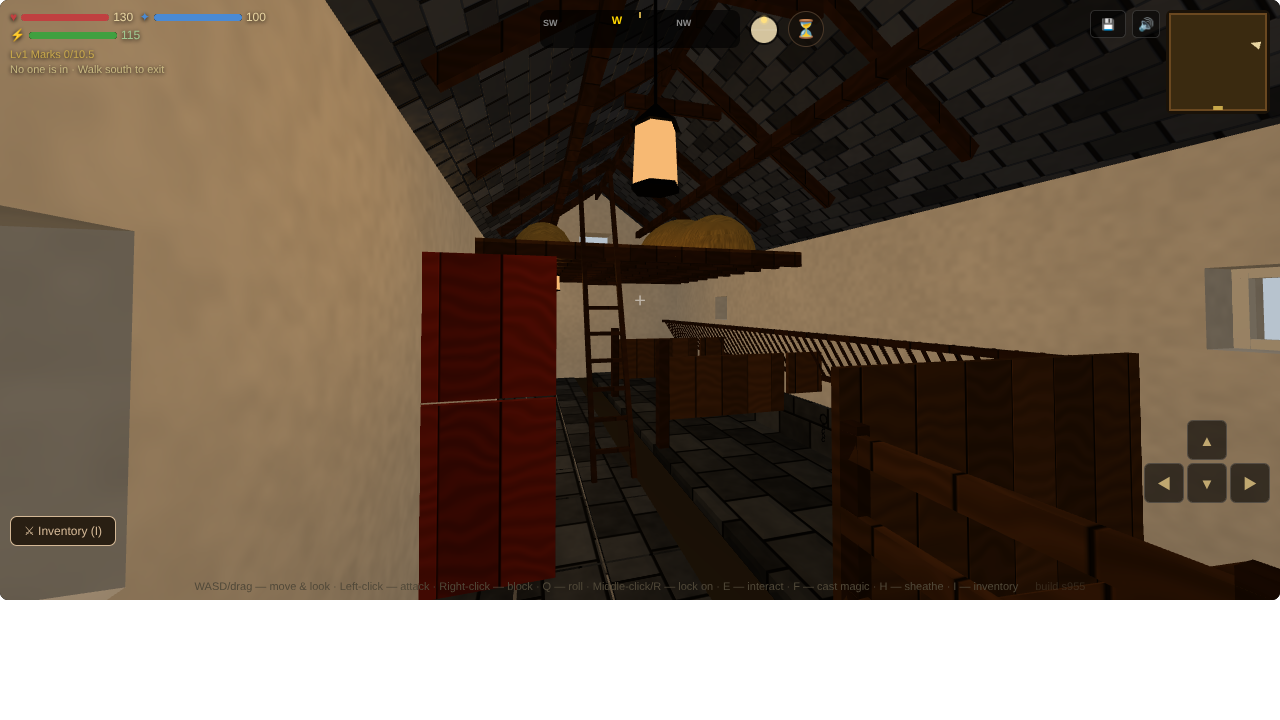
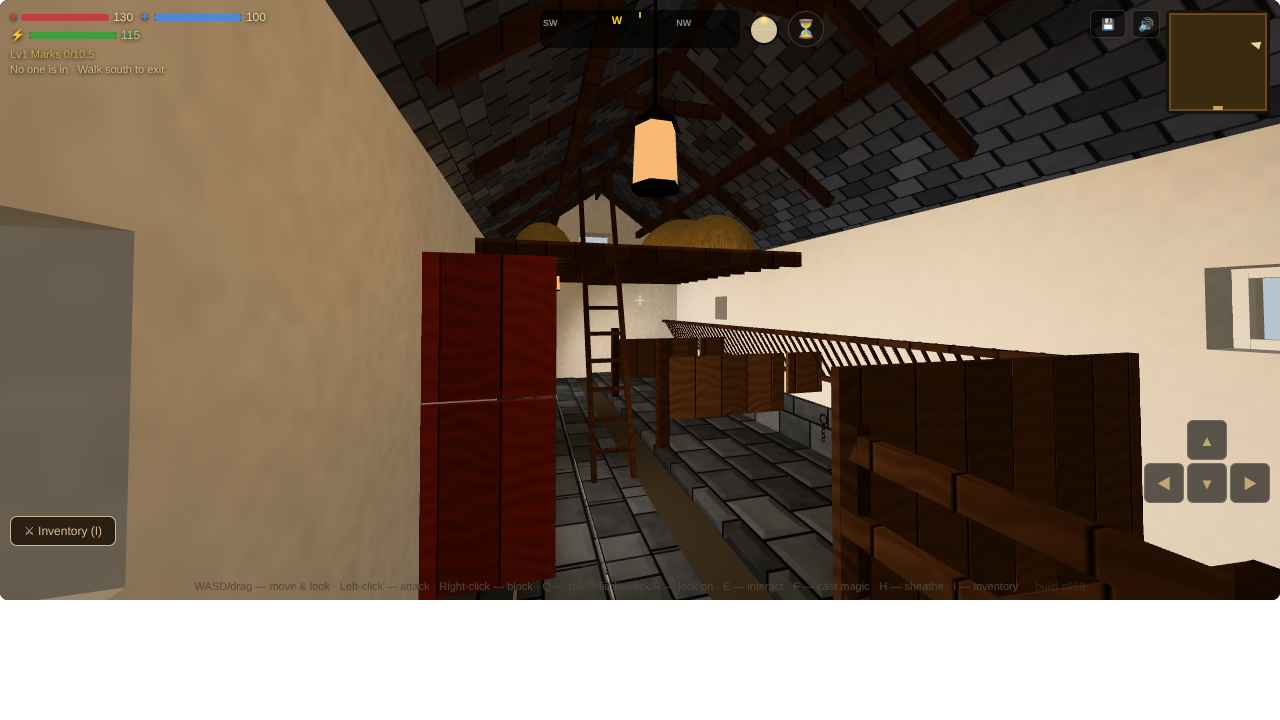
Look: Session 1493 — the day in through the byre's half-doors (26 → 57 at noon); the kit rooms measured at noon and 23h (#765 C)
Claude-Session: https://claude.ai/code/session_019eFMMpjteHQMEzMBx7vpi1

Changed region(s): [[0.4375, 0.1528, 1.0, 0.8556]]

diff --git a/js/83-world-generator.js b/js/83-world-generator.js
@@ -2099,6 +2099,9 @@ function shellFrame(sc_,o){const {W,D,H,type,st,wallKind,FN,FSEED,beams,wins,TAL
       for(const q of T.windows)out(q);for(const q of T.doors)out({...q,y:F0});
       const A=new Float32Array(P.reduce((n,a)=>n+a.length,0));let o=0;for(const a of P){A.set(a,o);o+=a.length;}
       const g=new THREE.BufferGeometry();g.setAttribute('position',new THREE.BufferAttribute(A,3));const m=new THREE.Mesh(g,M);m.userData.daylight=true;sc_.add(m);}
+    // S1493 — and the day in through the two half-doors at the barn's 0.4 (S1490's kitDaylight): from the arrival the byre reads 57 at
+    // noon (26 without, 110 at the full share); the lights between them (a third of a square metre) and the loft's hatch light only themselves
+    kitDaylight(sc_,T.doors.map(q=>({x:rx(q.x),y:q.h*.7,z:D,nx:0,nz:-1,w:q.w,h:q.h})),.4);
     // the light: the two lanterns (the passage's under the loft, the one hung from the couples over the pen) and the room's air
     const KA=kitRoomAir(sc_,.4);
     for(const p of T.lamps){const l=new THREE.PointLight(0xffaa44,1.0*KA.lamp,7);l.position.set(rx(p[0]),ry(p[1]),rz(p[2]));sc_.add(l);}

diff --git a/docs/backlog.md b/docs/backlog.md
@@ -623,7 +623,7 @@ Michael marked all 96 images of the intake on the review page: 63 KEEP and 33 NO
 - **Weather that matters** (`WX` and `tickWeather`, card F3's shaders; OG-138): blizzard, dust storm, aurora and rainbows beside the six kinds the game has; fog and snow cutting sight, mud slowing a horse, rain masking sound for sneaking, wind bending arrows, rivers swelling; puddles and a wet sheen, trees and banners in the wind, snow building on steps and melting. A gate storm (a blue spiral of cloud over a gate) as a sign of the corruption level. **OG-138's conditions as a prototype, 24 Oct 2026** (concept artist; `docs/prototypes/levelup/weather.html`, `docs/concepts.md`): the nine conditions, a rainbow and the gate storm as one row of numbers each over the Gatelands lane (a cloud deck, rain and snow, the wet and puddles, a bolt, the bow, a pennant), the Gatelands only; how far bad weather closes the view is DECISION #679. ~~How far each weather closes the view, and the foes' sight with it~~ — **done, Session 1420** (Michael's C on #679: `WX_SIGHT`, clear 2,400 m, overcast 1,100, rain 500, a storm 220, snow 400, fog 60; the fog's floor √3 / sight and no nearer; `canSeePlayer` capped at it in the open; `tests/weather`). ~~Heavy rain and the blizzard (280 m and 70 m), each a chance by place and season~~ — **done, Session 1433** (Michael's A on #723, a fifth: `heavyWx`, 7.5% of the Mark's winter rolls a blizzard, a tundra 10%; 4% of the Gatelands' autumn heavy rain, a fen 6%; snow and rain with `WX.heavy`, denser and driven, the sight 70 and 280 m; `tests/weather`, `tests/seasonwx`). Owed: their own look on card F3 (the driven snow's streaks, the heavier rain on the new look's shaders).
 - **Seasons in the land** (card F3's tree and grass kit; OG-139): blossom and new grass, full canopy, leaves turning and falling, bare trees in snow; muddy spring roads, dry summer ones; spring markets and harvest stalls; seasonal goods (morels and watercress, berries, mushrooms and nuts, winter herbs). Autumn colour is the Gatelands' alone, and Aurenne's snow stays on its eastern range (§1.1, §1.3). **The four seasons as a prototype, 21 Oct 2026** (concept artist; `docs/prototypes/levelup/seasons.html`, `docs/concepts.md`): leaves, twigs, snow and frost, litter, flowers and light as one row of numbers a season, the Gatelands only; how much the Gatelands change (OG-139 against OG-140's green all year) is DECISION #579.
 - **Each island's air** (card F3's terrain shading and `groundColor`; OG-140): the Gatelands misty, ancient, green all year and changeable, with bogs and floods; the Mark wild and crisp, fjords with falls, heather valleys, frozen lakes, avalanches and blizzards; Aurenne warm and open, olive groves, sea caves and arches, heat, drought and summer wildfires, a volcanic south (Tine's great gate). The islands stay where the canon puts them (L5). **The three islands' air as a prototype, 25 Oct 2026** (concept artist; `docs/prototypes/levelup/air.html`, `docs/concepts.md`): light, sky, haze, grade, land colour, water and trees as one row of numbers an island, over one viewpoint each; how far apart the three should look is DECISION #719.
-- **Light indoors** (cards F2 and F3, `buildInteriorFor`; OG-141): daylight through windows at four times; the hearth, candles and lanterns for small pools of light, torches on corridor walls, a ring chandelier for halls; a cottage lit by its hearth, a longhouse shut and fire-lit, an Aurennais house open to the sea; a tavern warm and crowded in the evening; dust in the beams, reflections on wet stone, magic light from a hand. Warm and inviting against cold and unsettling, the 12 Oct answer in two frames. **Three rooms lit by one rule as a prototype, 26 Oct 2026** (concept artist; `docs/prototypes/levelup/light.html`, `docs/concepts.md`): the openings, fires and lamps read from each room's own record, the sun's patches and dust in the beams, four hours and a hand's light; how bright a room is by night against the day is DECISION #765.
+- **Light indoors** (cards F2 and F3, `buildInteriorFor`; OG-141): daylight through windows at four times; the hearth, candles and lanterns for small pools of light, torches on corridor walls, a ring chandelier for halls; a cottage lit by its hearth, a longhouse shut and fire-lit, an Aurennais house open to the sea; a tavern warm and crowded in the evening; dust in the beams, reflections on wet stone, magic light from a hand. Warm and inviting against cold and unsettling, the 12 Oct answer in two frames. **Three rooms lit by one rule as a prototype, 26 Oct 2026** (concept artist; `docs/prototypes/levelup/light.html`, `docs/concepts.md`): the openings, fires and lamps read from each room's own record, the sun's patches and dust in the beams, four hours and a hand's light; how bright a room is by night against the day is DECISION #765. Michael's C (*the lights, with the eye half open*). Carried into the game room by room: the day in through each opening (`kitDaylight`), the longhouse and the barn in Session 1490, the byre in Session 1493 (26 → 57 at noon). Measured in Session 1493 from the arrival, noon/23h: the cottage 152/139 (the night nearly the day's, against C's 0.66; the fire's reach, not the openings: the windows' spots added 12 at most), the townhouse 120/55, the farmhouse 127/55; the night's eye (`landPost`'s exposure) still owed.
 - **Animals by the hour** (systems, after L3's animals; OG-142, Michael's note): deer moving at dawn, predators at dusk, an owl at night; wolves running deer through snow, the rut, geese passing; animals sheltering from rain, fog hiding them; tracks in snow, a nest of eggs; a spirit stag as a rare sight (OG-040). No taming.
 - **A town's day** (`tickTownNPCs`, the shops' hours in `60-shop.js`; OG-143): workers fill the streets at dawn and the guard changes, shops open late morning, trade peaks in the afternoon, shops close and taverns fill from five, guards alone at night; three markets by island with prices by place and a black market; passing events (a caravan, a noble's visit, a raid near gate activity, rebuilding); growth and decline, which the prosperity model already runs (§12a). No companions to recruit.
 - **What a place sounds like** (`76-music.js`, `72-audio.js`, `tickFootsteps`; OG-144): a palette per island (wind in grass, streams and church bells; howling gusts, ravens and creaking timber; surf, gulls and a market); a village, a tavern, a keep in layers; rain muffling the world, fog damping it; footsteps by ground (stone, wood, mud, snow); a stable gate's low hum and an unstable gate's distorted whispers, so a gate's condition is heard before it is seen.

diff --git a/docs/devlog/1493.md b/docs/devlog/1493.md
@@ -1,0 +1,33 @@
+## v80 — Session 1493 — the day in through the byre's half-doors; the kit rooms measured at noon and 23h (#765 C)
+The next of Session 1490's owed rooms. S1490 laid the day into the longhouse and the barn as a sky spot inside each opening (`kitDaylight`,
+Michael's C on #765, *the lights, with the eye half open*). It said the other kit rooms should be measured before and after, one at a time.
+This session measured them first, so the light went where it was short.
+
+Seven kit rooms, entered as the game enters them (`goToInterior`, the arrival's own facing), the canvas's median (0–255), noon/23h:
+the cottage (Colman's Rest) 152/139, the townhouse (Dunmore) 120/55, the farmhouse (Hearthwick's farm) 127/55, the byre 26/20, the barn
+52 at noon (S1490's spots). The taproom and the coaching room were not reached: the run ended at the barn's night frame. The prototype's
+C reads the cottage 65/43, and the game reads every room brighter than the prototype by about the same factor (S1490's longhouse 37
+against its 21). On that measure:
+- **The byre was the dark one.** It had the barn's two big openings and no spots, so it read half the barn next door at noon.
+- **The cottage is the other way.** At noon it is bright, but the night is nearly as bright as the day (0.91 against C's 0.66), and the
+  limewash reads orange at both hours. A probe that switched the lights off by kind, in the 3-bay cottage at noon, showed where the
+  frame comes from: from the arrival, the fire and the lantern 122 → 104, the warm ambient 104 → 76, the hemisphere 76 → 12. Day spots in
+  its four windows and door (tried, then taken out) added 12 at most. The cottage's fault is its night, which is `landPost`'s eye and the
+  fire's reach, not its openings. It is left for that piece of #765.
+- The townhouse and the farmhouse read plainly lit by day and darker by night (0.46 and 0.43): no change.
+
+**The byre** (`buildKitByre`, `83-world-generator.js`): one `kitDaylight` line over its two half-doors (1.05 by 2.0 m), at the barn's
+share of 0.4. The four small lights (a third and a quarter of a square metre) and the loft's hay hatch light only themselves, as the
+barn's slits do. Strength, from the arrival in the passage at noon: none 26, 0.4 → 57, 0.7 → 84, the full share 110. 0.4 matches the
+barn (52–57) and keeps a byre darker than a house. The night is unchanged (20): no spot after dark.
+
+### Verified (headless Chromium)
+- The byre at Hearthwick's farm from the arrival: 26 → 57 at noon (two spots of 1.68), 20 at 23h before and after.
+  `docs/prototypes/kit-byre-arrive-day.png`.
+- `kitfarmhouse`: the byre's light check counts its lanterns apart from the sky spots, as the barn's does (2 lanterns), and one check is new:
+  at noon the day comes in through both half-doors (2 spots). The suite's picture of the byre's passage is re-taken with the day in it.
+### Needs eyes
+- Whether 57 reads right for a byre at noon with both half-doors open.
+- The cottage at night (139 against 152 at noon, orange both times) is #765's night half, with `landPost`'s exposure. The fire's 7 m reach
+  in a 4.2 m room is the number to try first.
+- The taproom, the coaching room, the church hall and the Aurenne and Markish rooms are not measured yet.
